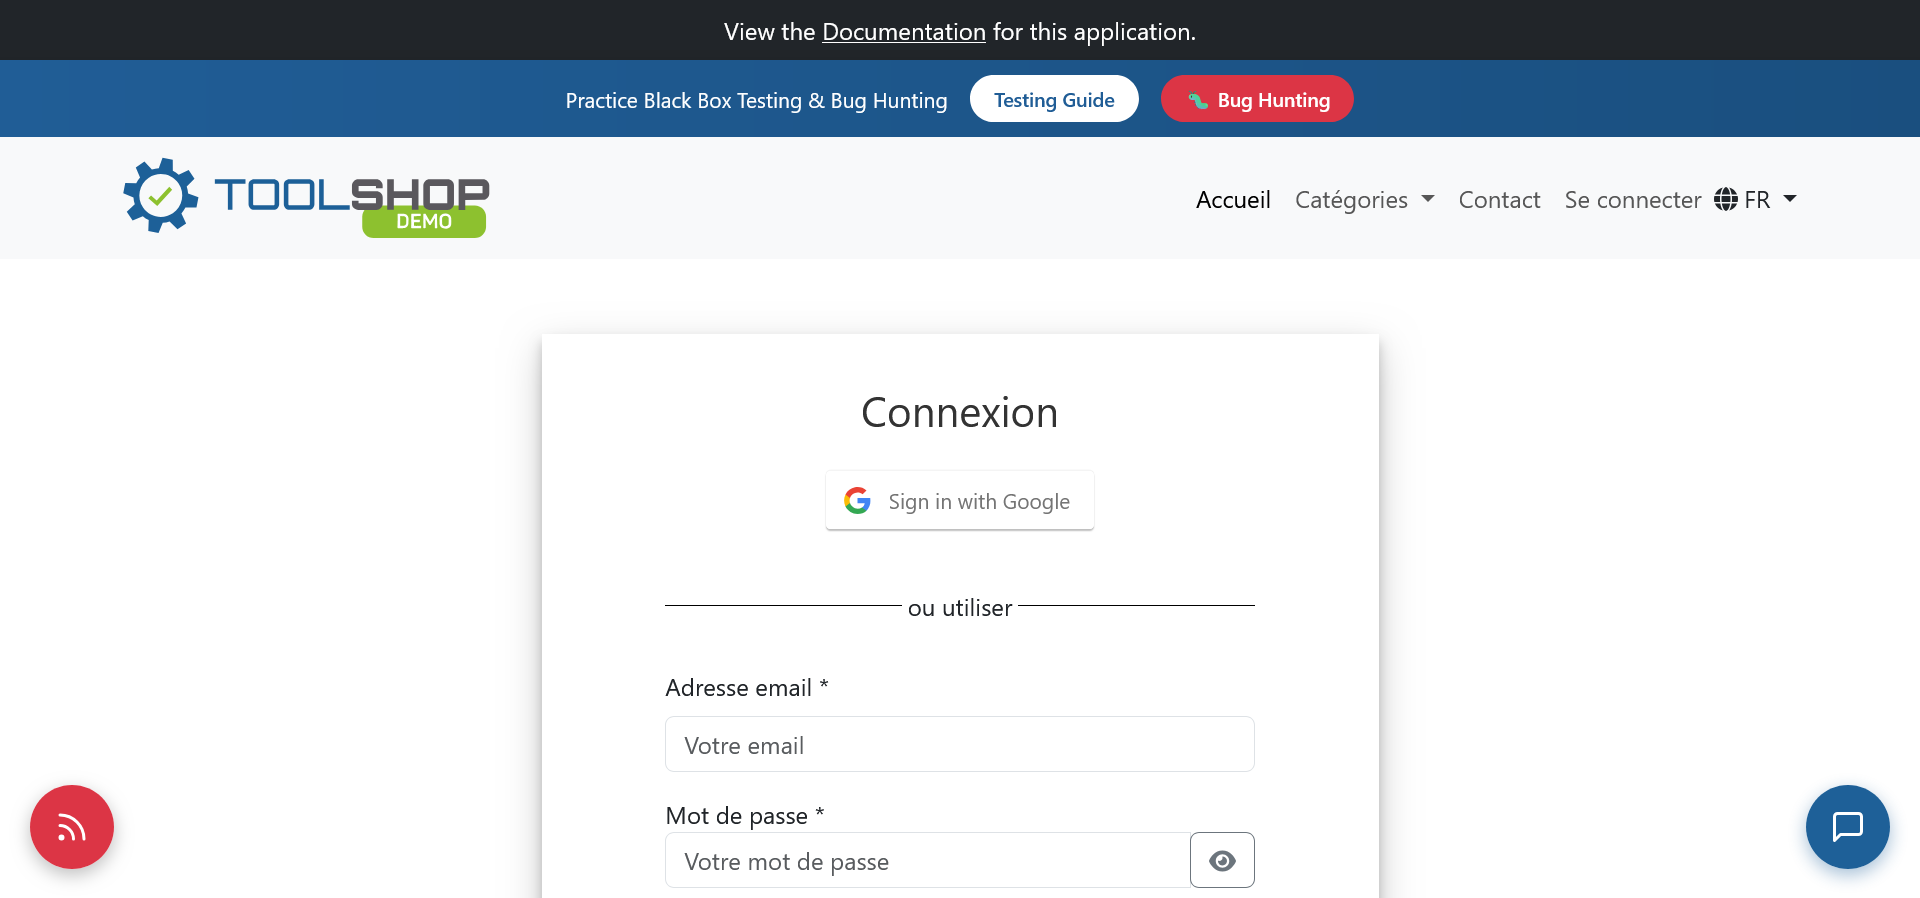
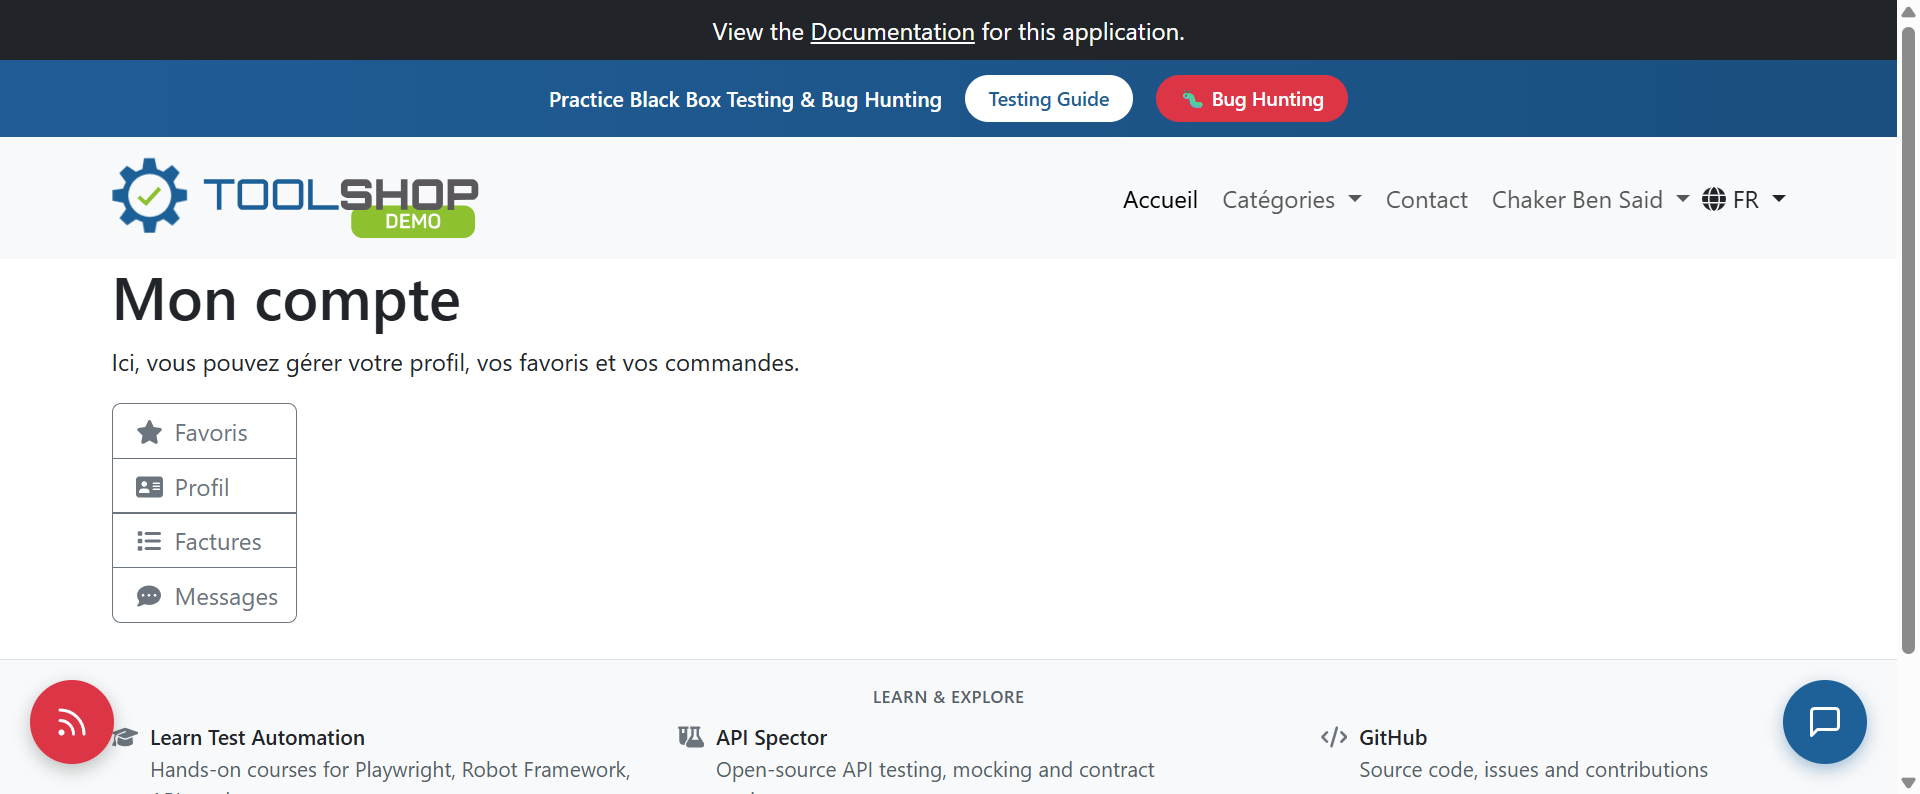
(test)-Update&Rexecute Login Test With Capture

diff --git a/EcommerceProject1/testcases/log.html b/EcommerceProject1/testcases/log.html
@@ -2091,25 +2091,25 @@ storage = function () {
 window.output = {};
 </script>
 <script type="text/javascript">
-window.output["suite"] = [1,2,3,4,[],[1,0,12153],[],[[5,0,0,[6,7],[],[1,397,11756],[[0,8,9,0,0,10,0,[],[1,397,8301],[[0,11,12,0,13,14,0,[],[1,398,3237],[[399,2,15]]],[0,16,12,0,17,0,0,[],[1,3635,58],[]],[0,18,19,0,20,21,0,[],[1,3694,5002],[[8696,2,22]]]]],[0,23,9,0,0,0,0,[],[1,8702,3427],[[0,24,12,0,25,26,0,[],[1,8705,201],[[8705,2,27]]],[0,24,12,0,25,28,0,[],[1,8906,117],[[8906,2,29]]],[0,30,12,0,31,32,0,[],[1,9023,105],[[9023,2,33]]],[0,18,19,0,20,34,0,[],[1,9128,3001],[[12129,2,35]]]]],[0,36,9,0,0,0,0,[],[1,12129,24],[[0,37,12,0,38,0,39,[],[1,12129,10],[[12139,2,40]]],[0,41,19,0,42,43,0,[],[1,12139,12],[]],[0,44,19,0,45,46,0,[],[1,12151,2],[]]]],[0,41,19,0,42,47,0,[],[1,12153,0],[]]]]],[],[1,1,0,0]];
+window.output["suite"] = [1,2,3,4,[],[1,0,15477],[],[[5,0,0,[6,7],[],[1,606,14868],[[0,8,9,0,0,10,0,[],[1,607,8603],[[0,11,12,0,13,14,0,[],[1,608,3552],[[608,2,15]]],[0,16,12,0,17,0,0,[],[1,4161,46],[]],[0,18,19,0,20,21,0,[],[1,4209,5002],[[9210,2,22]]]]],[0,23,9,0,0,0,0,[],[1,9211,3384],[[0,24,12,0,25,26,0,[],[1,9212,154],[[9212,2,27]]],[0,24,12,0,25,28,0,[],[1,9366,138],[[9366,2,29]]],[0,30,12,0,31,32,0,[],[1,9504,91],[[9504,2,33]]],[0,18,19,0,20,34,0,[],[1,9595,3000],[[12595,2,35]]]]],[0,36,9,0,0,0,0,[],[1,12595,50],[[0,37,12,0,38,0,39,[],[1,12595,0],[[12595,2,40]]],[0,41,19,0,42,43,0,[],[1,12610,0],[]],[0,44,19,0,45,46,0,[],[1,12612,0],[]],[0,47,12,0,48,49,0,[],[1,12612,16],[[12628,2,50]]],[0,51,12,0,52,49,53,[],[1,12628,17],[[12645,2,54]]],[0,41,19,0,42,55,0,[],[1,12645,0],[]]]],[0,56,9,0,0,0,0,[],[1,12645,190],[[0,57,12,0,58,0,0,[],[1,12645,189],[[12834,2,59]]],[0,41,19,0,42,60,0,[],[1,12834,1],[]]]],[2,61,12,0,62,0,0,[],[1,12835,2638],[]]]]],[],[1,1,0,0]];
 </script>
 <script type="text/javascript">
 window.output["strings"] = [];
 </script>
 <script type="text/javascript">
-window.output["strings"] = window.output["strings"].concat(["*","*loginE2E","*E:\\PycharmProjects\\automation\\RobotFramework\\EcommerceProject1\\testcases\\loginE2E.robot","*loginE2E.robot","*<p>Login to website\x3c/p>","*Logging into app using valid credentials","*critical","*login","*Open The WebSite","*login_resource","*Chrome","*Open Browser","*SeleniumLibrary","*<p>Opens a new browser instance to the optional <code>url\x3c/code>.\x3c/p>","*url=${URL}    browser=${browser}","*Opening browser 'Chrome' to base url '<a href=\"https://practicesoftwaretesting.com/auth/login\">https://practicesoftwaretesting.com/auth/login\x3c/a>'.","*Maximize Browser Window","*<p>Maximizes current browser window.\x3c/p>","*Sleep","*BuiltIn","*<p>Pauses execution for the given time.\x3c/p>","*5s","*Slept 5 seconds.","*User Login","*Input Text","*<p>Types the given <code>text\x3c/code> into the text field identified by <code>locator\x3c/code>.\x3c/p>","*${EMAIL_FIELD Locator}    bchaker28@yahoo.com","*Typing text 'bchaker28@yahoo.com' into text field 'id:email'.","*${PASSWORD_FIELD Locator}    ChakerSecure#2026!Test","*Typing text 'ChakerSecure#2026!Test' into text field 'id:password'.","*Click Button","*<p>Clicks the button identified by <code>locator\x3c/code>.\x3c/p>","*${LOGIN_BUTTON Locator}","*Clicking button '<a href=\"xpath://input[@value='Connexion\">xpath://input[@value='Connexion\x3c/a>']'.","*3s","*Slept 3 seconds.","*Verify Logging into application","*Get Location","*<p>Returns the current browser window URL.\x3c/p>","*${CurrentURL}","*${CurrentURL} = <a href=\"https://practicesoftwaretesting.com/account\">https://practicesoftwaretesting.com/account\x3c/a>","*Log To Console","*<p>Logs the given message to the console.\x3c/p>","*\\n Current URL after Login : ${CurrentURL}\\n","*Should Contain","*<p>Fails if the `container` does not contain the `item` one or more times.\x3c/p>","*${CurrentURL}    item=/account","*\\nLogin Test Passed\\n"]);
+window.output["strings"] = window.output["strings"].concat(["*","*loginE2E","*E:\\PycharmProjects\\automation\\RobotFramework\\EcommerceProject1\\testcases\\loginE2E.robot","*loginE2E.robot","*<p>Login to website\x3c/p>","*Logging into app using valid credentials","*critical","*login","*Open The WebSite","*login_resource","*Chrome","*Open Browser","*SeleniumLibrary","*<p>Opens a new browser instance to the optional <code>url\x3c/code>.\x3c/p>","*url=${URL}    browser=${browser}","*Opening browser 'Chrome' to base url '<a href=\"https://practicesoftwaretesting.com/auth/login\">https://practicesoftwaretesting.com/auth/login\x3c/a>'.","*Maximize Browser Window","*<p>Maximizes current browser window.\x3c/p>","*Sleep","*BuiltIn","*<p>Pauses execution for the given time.\x3c/p>","*5s","*Slept 5 seconds.","*User Login","*Input Text","*<p>Types the given <code>text\x3c/code> into the text field identified by <code>locator\x3c/code>.\x3c/p>","*${EMAIL_FIELD Locator}    bchaker28@yahoo.com","*Typing text 'bchaker28@yahoo.com' into text field 'id:email'.","*${PASSWORD_FIELD Locator}    ChakerSecure#2026!Test","*Typing text 'ChakerSecure#2026!Test' into text field 'id:password'.","*Click Button","*<p>Clicks the button identified by <code>locator\x3c/code>.\x3c/p>","*${LOGIN_BUTTON Locator}","*Clicking button '<a href=\"xpath://input[@value='Connexion\">xpath://input[@value='Connexion\x3c/a>']'.","*3s","*Slept 3 seconds.","*Verify Logging into application","*Get Location","*<p>Returns the current browser window URL.\x3c/p>","*${CurrentURL}","*${CurrentURL} = <a href=\"https://practicesoftwaretesting.com/account\">https://practicesoftwaretesting.com/account\x3c/a>","*Log To Console","*<p>Logs the given message to the console.\x3c/p>","*\\n Current URL after Login : ${CurrentURL}","*Should Contain","*<p>Fails if the `container` does not contain the `item` one or more times.\x3c/p>","*${CurrentURL}    item=/account","*Element Should Be Visible","*<p>Verifies that the element identified by <code>locator\x3c/code> is visible.\x3c/p>","*${MY_COMPTE Locator}","*Element '<a href=\"xpath://h1[normalize-space()='Mon\">xpath://h1[normalize-space()='Mon\x3c/a> compte']' is displayed.","*Get Text","*<p>Returns the text value of the element identified by <code>locator\x3c/code>.\x3c/p>","*${element_text}","*${element_text} = Mon compte","*\\nText of Element : ${element_text}","*Take Screenshot Of Test result","*Capture Page Screenshot","*<p>Takes a screenshot of the current page and embeds it into a log file.\x3c/p>","*\x3c/td>\x3c/tr><tr><td colspan=\"3\"><a href=\"selenium-screenshot-1.png\"><img src=\"selenium-screenshot-1.png\" width=\"800px\">\x3c/a>","*\\nScreenshot Captured Successfully!","*Close Browser","*<p>Closes the current browser.\x3c/p>"]);
 </script>
 <script type="text/javascript">
-window.output["stats"] = [[{"elapsed":"00:00:12","fail":0,"label":"All Tests","pass":1,"skip":0}],[{"elapsed":"00:00:12","fail":0,"label":"critical","pass":1,"skip":0},{"elapsed":"00:00:12","fail":0,"label":"login","pass":1,"skip":0}],[{"elapsed":"00:00:12","fail":0,"id":"s1","label":"loginE2E","name":"loginE2E","pass":1,"skip":0}]];
+window.output["stats"] = [[{"elapsed":"00:00:15","fail":0,"label":"All Tests","pass":1,"skip":0}],[{"elapsed":"00:00:15","fail":0,"label":"critical","pass":1,"skip":0},{"elapsed":"00:00:15","fail":0,"label":"login","pass":1,"skip":0}],[{"elapsed":"00:00:15","fail":0,"id":"s1","label":"loginE2E","name":"loginE2E","pass":1,"skip":0}]];
 </script>
 <script type="text/javascript">
 window.output["errors"] = [];
 </script>
 <script type="text/javascript">
-window.output["baseMillis"] = 1791905069855;
+window.output["baseMillis"] = 1791906662294;
 </script>
 <script type="text/javascript">
-window.output["generated"] = 12171;
+window.output["generated"] = 15497;
 </script>
 <script type="text/javascript">
 window.output["expand_keywords"] = null;

diff --git a/EcommerceProject1/testcases/report.html b/EcommerceProject1/testcases/report.html
@@ -1918,7 +1918,7 @@ storage = function () {
 window.output = {};
 </script>
 <script type="text/javascript">
-window.output["suite"] = [1,2,3,4,[],[1,0,12153],[],[[5,0,0,[6,7],[],[1,397,11756],[]]],[],[1,1,0,0]];
+window.output["suite"] = [1,2,3,4,[],[1,0,15477],[],[[5,0,0,[6,7],[],[1,606,14868],[]]],[],[1,1,0,0]];
 </script>
 <script type="text/javascript">
 window.output["strings"] = [];
@@ -1927,13 +1927,13 @@ window.output["strings"] = [];
 window.output["strings"] = window.output["strings"].concat(["*","*loginE2E","*E:\\PycharmProjects\\automation\\RobotFramework\\EcommerceProject1\\testcases\\loginE2E.robot","*loginE2E.robot","*<p>Login to website\x3c/p>","*Logging into app using valid credentials","*critical","*login"]);
 </script>
 <script type="text/javascript">
-window.output["stats"] = [[{"elapsed":"00:00:12","fail":0,"label":"All Tests","pass":1,"skip":0}],[{"elapsed":"00:00:12","fail":0,"label":"critical","pass":1,"skip":0},{"elapsed":"00:00:12","fail":0,"label":"login","pass":1,"skip":0}],[{"elapsed":"00:00:12","fail":0,"id":"s1","label":"loginE2E","name":"loginE2E","pass":1,"skip":0}]];
+window.output["stats"] = [[{"elapsed":"00:00:15","fail":0,"label":"All Tests","pass":1,"skip":0}],[{"elapsed":"00:00:15","fail":0,"label":"critical","pass":1,"skip":0},{"elapsed":"00:00:15","fail":0,"label":"login","pass":1,"skip":0}],[{"elapsed":"00:00:15","fail":0,"id":"s1","label":"loginE2E","name":"loginE2E","pass":1,"skip":0}]];
 </script>
 <script type="text/javascript">
-window.output["baseMillis"] = 1791905069855;
+window.output["baseMillis"] = 1791906662294;
 </script>
 <script type="text/javascript">
-window.output["generated"] = 12171;
+window.output["generated"] = 15497;
 </script>
 <script type="text/javascript">
 window.output["expand_keywords"] = null;
